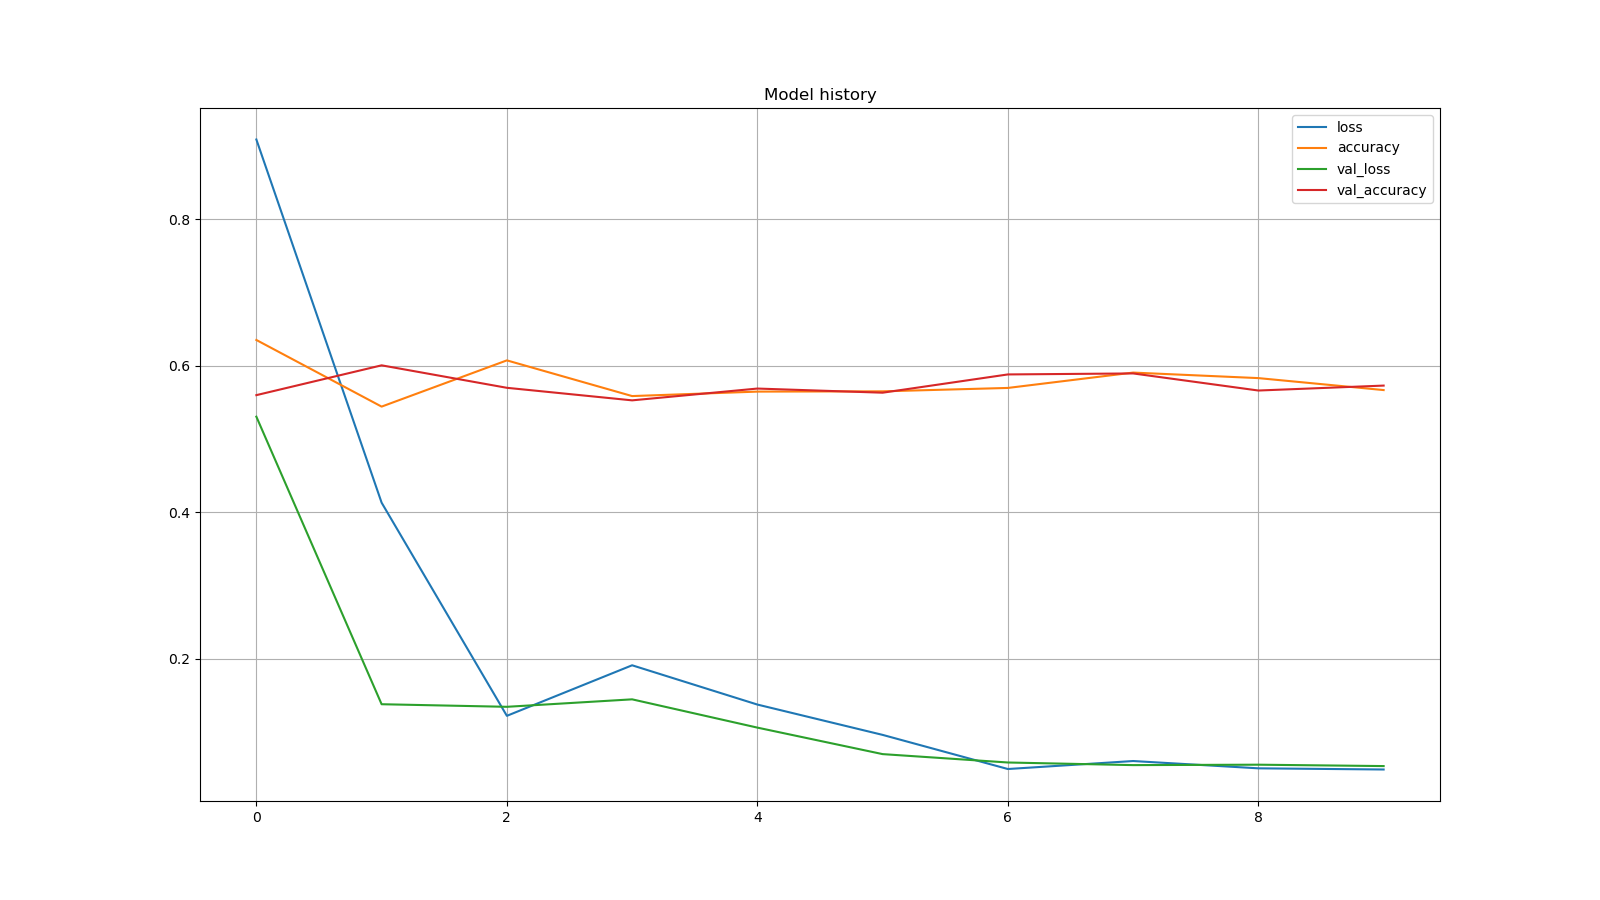
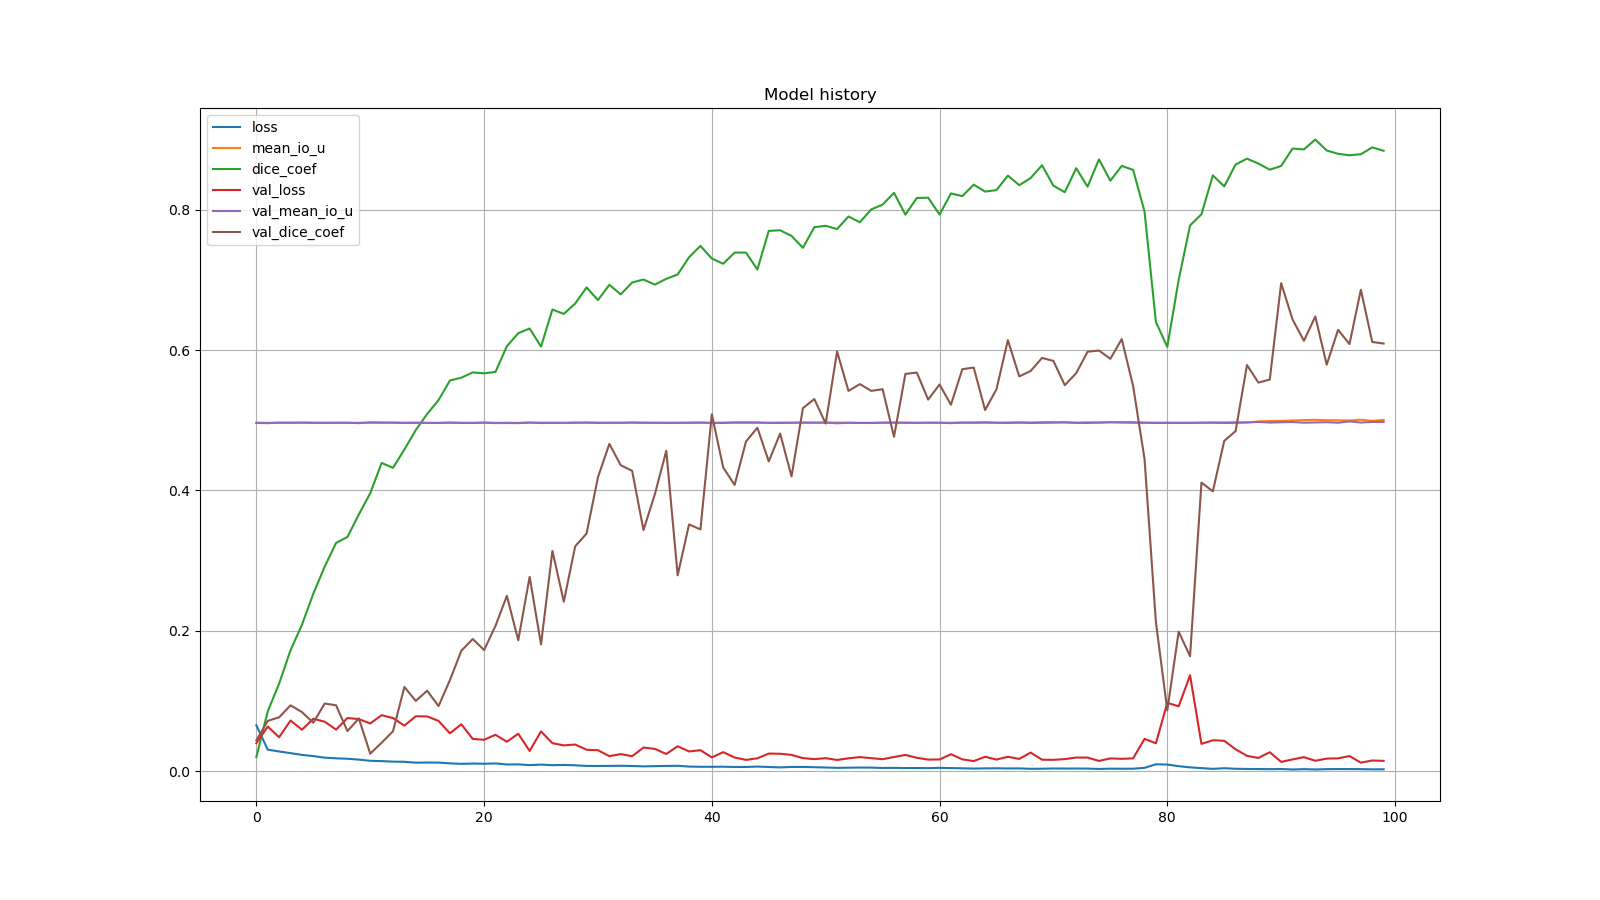
- fixed train.py , predict.py and model.py to work with binary classification - added dice coef and jaccard to the training history and removed accuracy - set the weights of the encoder to trainable

diff --git a/U-Net/utils.py b/U-Net/utils.py
@@ -64,8 +64,12 @@ def categorical2mask(X, labels):
     labels: dict
         dict containing the labelmap that describes the rgb values of each label
     """
-    Y = np.zeros(X.shape[0:2] + [3], dtype="uint8")
+    X_shape = X.shape[0:2]
+    if type(X_shape) == tuple:
+        X_shape = list(X_shape)
+    Y = np.zeros(X_shape + [3], dtype="uint8")
     for i, key in enumerate(labels):
+        print(X.shape,Y.shape)
         Y[...,0] = np.where(X==i, labels[key][0], Y[...,0])
         Y[...,1] = np.where(X==i, labels[key][1], Y[...,1])
         Y[...,2] = np.where(X==i, labels[key][2], Y[...,2])
@@ -96,6 +100,7 @@ def parse_labelfile(path):
     """
     with open(path, "r") as FILE:
         lines = FILE.readlines()
+
 
     labels = {x.split(":")[0]: x.split(":")[1] for x in lines[1:]}
 
@@ -166,7 +171,11 @@ def display(display_list):
     for i in range(len(display_list)):
         plt.subplot(1, len(display_list), i+1)
         plt.title(title[i])
-        plt.imshow(tf.keras.preprocessing.image.array_to_img(display_list[i]))
+        # plt.imshow(tf.keras.preprocessing.image.array_to_img(display_list[i]))
+        if len(display_list[i].shape) == 2:
+            plt.imshow((display_list[i]),cmap='gray')
+        else:
+            plt.imshow((display_list[i]))
         plt.axis('off')
     plt.show()
 

diff --git a/U-Net/train.py b/U-Net/train.py
@@ -5,6 +5,7 @@ from model import get_model
 import matplotlib.pyplot as plt
 import utils
 import os 
+from tensorflow.keras import backend as K
 
 flags.DEFINE_string('train_Dataset','./tfrecords/train-data.tfrecord','path to train Dataset')
 flags.DEFINE_float('val_split',0.2,'size of the validation split')
@@ -14,12 +15,19 @@ flags.DEFINE_integer('batch_size', 5, 'batch size')
 flags.DEFINE_integer('epochs', 10, 'Epochs')
 flags.DEFINE_integer('save_freq', 5, 'frequency of epochs to save')
 
+def dice_coef(y_true, y_pred, smooth=1):
+  intersection = K.sum(y_true * y_pred, axis=[1,2,3])
+  union = K.sum(y_true, axis=[1,2,3]) + K.sum(y_pred, axis=[1,2,3])
+  dice = K.mean((2. * intersection + smooth)/(union + smooth), axis=0)
+  return dice
+
+
 def main(_argv):
 
     # Initialize variables
     checkpoint_path = FLAGS.weights+'cp-{epoch:04d}.ckpt'
     image_size = 224
-    classes = 2
+    classes = 1
     train_Dataset_path = FLAGS.train_Dataset
 
 
@@ -48,7 +56,7 @@ def main(_argv):
     model.save_weights(checkpoint_path.format(epoch=0))
     model.compile(
                 optimizer = 'adam',
-                metrics = ['accuracy'], 
+                metrics = [tf.keras.metrics.MeanIoU(num_classes = 2),dice_coef],
                 loss = tf.keras.losses.BinaryCrossentropy()
                 )
 

diff --git a/U-Net/predict.py b/U-Net/predict.py
@@ -40,14 +40,17 @@ def main(_argv):
     X = tf.expand_dims(X,0)
 
     # Load the model and the weights
-    model = get_model(output_channels=classes, size=img_size)
+    model = get_model(output_channels=1, size=img_size)
     model.load_weights(weights_path)
 
     # Make the prediction
+    threshold = 0.3
     Y = model.predict(X)   
-    Y = tf.argmax(Y,axis=-1)
-    Y = utils.categorical2mask(Y[0],labels)
-    Y = cv2.resize(Y, (img.shape[1],img.shape[0]), interpolation = cv2.INTER_NEAREST) # Resize the prediction to have the same dimensions as the input
+    #Y = tf.argmax(Y,axis=-1)
+    Y = Y/Y.max()
+    Y = np.where(Y>=threshold,1,0)
+    # Y = utils.categorical2mask(Y[0],labels)
+    Y = cv2.resize(Y[0], (img.shape[1],img.shape[0]), interpolation = cv2.INTER_NEAREST) # Resize the prediction to have the same dimensions as the input
 
     if show_results:
         utils.display([img, Y])
@@ -56,7 +59,5 @@ def main(_argv):
         Y = cv2.cvtColor(Y, cv2.COLOR_BGR2RGB)
         cv2.imwrite(out_path, Y)
 
-    print(Y.shape)
-    print(np.max(Y))
 if __name__ == "__main__":
     app.run(main)

diff --git a/U-Net/prueba_dice.py b/U-Net/prueba_dice.py
@@ -1,0 +1,7 @@
+from tensorflow.keras import backend as K
+
+def dice_coef(y_true, y_pred, smooth=1):
+  intersection = K.sum(y_true * y_pred, axis=[1,2,3])
+  union = K.sum(y_true, axis=[1,2,3]) + K.sum(y_pred, axis=[1,2,3])
+  dice = K.mean((2. * intersection + smooth)/(union + smooth), axis=0)
+  return dice

diff --git a/U-Net/model.py b/U-Net/model.py
@@ -30,7 +30,7 @@ def get_encoder(input_shape=[None,None,3],name="encoder"):
 
     # Create the feature extraction model
     encoder  = tf.keras.Model(inputs=Input, outputs=layers,name=name)
-    encoder.trainable = False
+    encoder.trainable = True
 
     return encoder
 

diff --git a/U-Net/download_dataset.py b/U-Net/download_dataset.py
@@ -19,7 +19,7 @@ def download_dataset():
     script3 = """rm Data.zip"""
     os.system(script1) # Download zip
     os.system(script2) # unzip
-    os.system(script3) # delete zip
+    os.system(script3) # Delete zip
 
 def main(_argv):
     path = FLAGS.path
